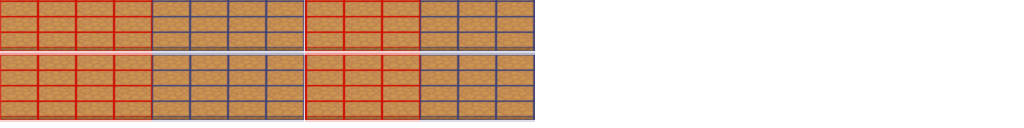
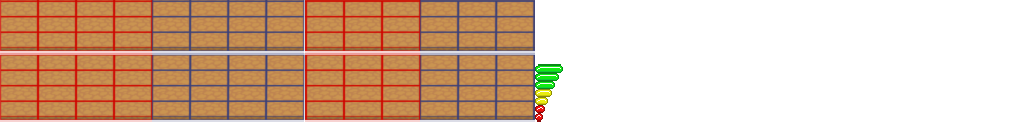
Progress! You can now move the characters around the battle screen

Changed region(s): [[0.5, 0.5, 0.5625, 0.9375], [0.2812, 0.0, 0.5312, 0.0312]]

diff --git a/Unsealed/src/net/k3rnel/unsealed/screens/BattleScreen.java b/Unsealed/src/net/k3rnel/unsealed/screens/BattleScreen.java
@@ -1,5 +1,9 @@
 package net.k3rnel.unsealed.screens;
 
+import com.badlogic.gdx.Gdx;
+import com.badlogic.gdx.Input;
+import com.badlogic.gdx.InputMultiplexer;
+import com.badlogic.gdx.graphics.g2d.TextureRegion;
 import com.badlogic.gdx.graphics.g2d.TextureAtlas.AtlasRegion;
 import com.badlogic.gdx.scenes.scene2d.ui.Image;
 import com.badlogic.gdx.utils.Scaling;
@@ -9,6 +13,11 @@ import net.k3rnel.unsealed.screens.AbstractScreen;
 
 public class BattleScreen extends AbstractScreen {
 
+    Image guy;
+    Image gal;
+    Image battlefield;
+    Image guybar;
+    Image galbar;
     public BattleScreen(Unsealed game) {
         super(game);
     }
@@ -19,24 +28,112 @@ public class BattleScreen extends AbstractScreen {
     @Override
     public void show() {
         super.show();
-     // retrieve the battle area from the atlas
-        AtlasRegion atlasRegion = getAtlas().findRegion( "battle/field-4x4" );
-        Image battlefield = new Image( atlasRegion);
+        // retrieve the battle area from the atlas
+        AtlasRegion atlasRegion = getAtlas().findRegion( "battle/field-3x3" );
+        battlefield = new Image( atlasRegion);
         battlefield.setScaling(Scaling.stretch);
         battlefield.setScale(2f);
         battlefield.setOriginX((battlefield.getWidth()*battlefield.getScaleX())/2 - stage.getWidth()/2 );
-        battlefield.setOriginY(-10);
+        battlefield.setOriginY((battlefield.getHeight()*battlefield.getScaleY())+40 - stage.getHeight()/2 );
         stage.addActor(battlefield);
-        atlasRegion = getAtlas().findRegion( "char-sprites/male_spritesheet" );
-        Image guy = new Image( atlasRegion);
+        AtlasRegion charRegion = getAtlas().findRegion( "char-sprites/male_spritesheet" );
+        TextureRegion[][] charTextures = charRegion.split(64,64);
+        guy = new Image(charTextures[3][0]);
         guy.setScaling(Scaling.stretch);
+        guy.setPosition(222,84);
         guy.setScale(2f);
         stage.addActor(guy);
-        atlasRegion = getAtlas().findRegion( "char-sprites/female_spritesheet" );
-        Image gal = new Image( atlasRegion);
+        charRegion = getAtlas().findRegion( "battle/lifebar" );
+        charTextures = charRegion.split(28,8);
+        guybar = new Image(charTextures[0][0]);
+        guybar.setScale(2f);
+        guybar.setPosition(222,104);
+        stage.addActor(guybar);
+        charRegion = getAtlas().findRegion( "char-sprites/female_spritesheet" );
+        charTextures = charRegion.split(64,64);
+        gal = new Image(charTextures[1][0]);
         gal.setScaling(Scaling.fill);
         gal.setScale(2f);
-        gal.setPosition(60,60);
+        gal.setPosition(450,84);
+        charRegion = getAtlas().findRegion( "battle/lifebar" );
+        charTextures = charRegion.split(28,8);
+        galbar = new Image(charTextures[0][0]);
+        galbar.setScale(2f);
+        galbar.setPosition(450,104);
+        stage.addActor(galbar);
         stage.addActor(gal);
+        
+        Gdx.input.setInputProcessor(new InputMultiplexer(this,stage));
+    }
+    @Override
+    public void render(float delta) {
+        super.render(delta);
+        guybar.setX(guy.getX()+33);
+        guybar.setY(guy.getY()+100);
+        galbar.setX(gal.getX()+37);
+        galbar.setY(gal.getY()+100);
+    }
+    @Override
+    public boolean keyDown(int keycode) {
+        
+        switch(keycode) {
+            case Input.Keys.RIGHT:
+                if(guy.getX()<298)
+                guy.setX(guy.getX()+76);
+                Gdx.app.log(Unsealed.LOG, "Position: "+guy.getX()+"/"+guy.getY());
+                return true;
+            case Input.Keys.LEFT:
+                if(guy.getX()>146)
+                    guy.setX(guy.getX()-76);
+                Gdx.app.log(Unsealed.LOG, "Position: "+guy.getX()+"/"+guy.getY());
+                return true;
+            case Input.Keys.UP:
+                if(guy.getY()<115)
+                    guy.setY(guy.getY()+31);
+                Gdx.app.log(Unsealed.LOG, "Position: "+guy.getX()+"/"+guy.getY());
+                return true;
+            case Input.Keys.DOWN:
+                if(guy.getY()>53)
+                    guy.setY(guy.getY()-31);
+                Gdx.app.log(Unsealed.LOG, "Position: "+guy.getX()+"/"+guy.getY());
+                return true;
+            case Input.Keys.D:
+                if(gal.getX()<526)
+                    gal.setX(gal.getX()+76);
+                Gdx.app.log(Unsealed.LOG, "Position: "+gal.getX()+"/"+gal.getY());
+                return true;
+            case Input.Keys.A:
+                if(gal.getX()>374)
+                    gal.setX(gal.getX()-76);
+                Gdx.app.log(Unsealed.LOG, "Position: "+gal.getX()+"/"+gal.getY());
+                return true;
+            case Input.Keys.W:
+                if(gal.getY()<115)
+                gal.setY(gal.getY()+31);
+                Gdx.app.log(Unsealed.LOG, "Position: "+gal.getX()+"/"+gal.getY());
+                return true;
+            case Input.Keys.S:
+                if(gal.getY()>53)
+                gal.setY(gal.getY()-31);
+                Gdx.app.log(Unsealed.LOG, "Position: "+gal.getX()+"/"+gal.getY());
+                return true;
+        }
+        return false;
+    }
+    @Override
+    public boolean keyUp(int keycode) {
+        switch(keycode) {
+            case Input.Keys.BACK:
+                game.setScreen(new MenuScreen(game));
+                return true;
+            case Input.Keys.ESCAPE:
+                game.setScreen(new MenuScreen(game));
+                return true;
+            case Input.Keys.Q:
+                battlefield.setY((battlefield.getHeight()*battlefield.getScaleY())+40 - stage.getHeight()/2 );
+                return true;
+
+        }
+        return false;
     }
 }
